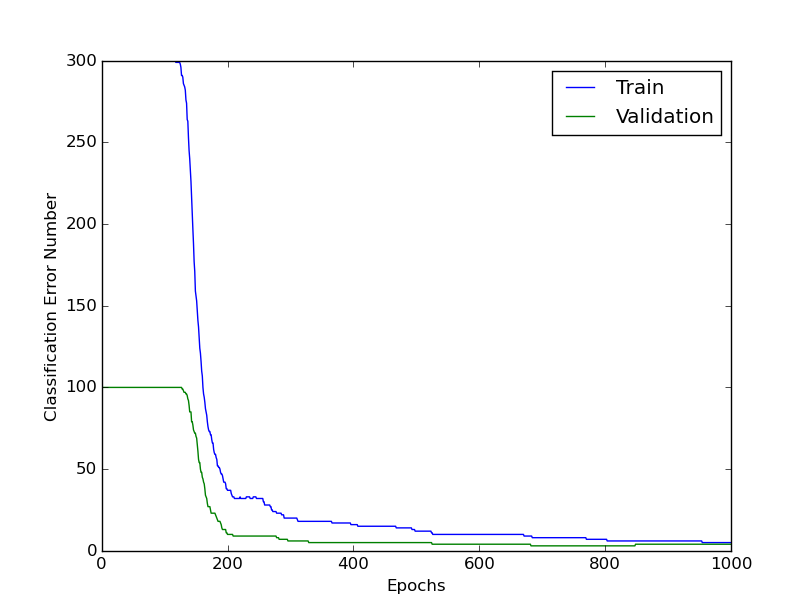
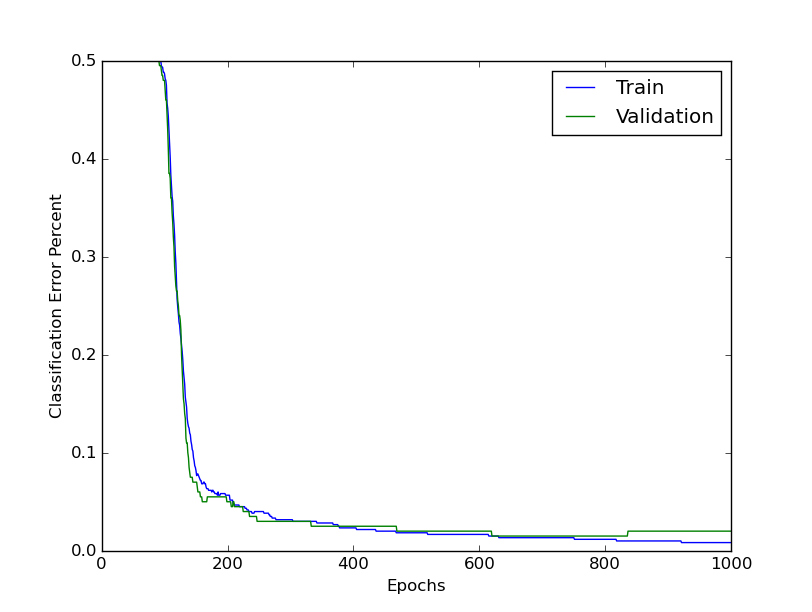
need percentage not the number for 2-2

diff --git a/NN/python/nn.py b/NN/python/nn.py
@@ -39,8 +39,8 @@ def TrainNN(num_hiddens, eps, momentum, num_epochs):
   valid_error = []
 
   # false classified error
-  train_error_false_classified_number = []
-  valid_error_false_classified_number = []
+  train_error_false_classified_percent = []
+  valid_error_false_classified_percent = []
 
   num_train_cases = inputs_train.shape[1]
   for epoch in xrange(num_epochs):
@@ -53,7 +53,7 @@ def TrainNN(num_hiddens, eps, momentum, num_epochs):
     # Compute cross entropy
     train_CE = -np.mean(target_train * np.log(prediction) + (1 - target_train) * np.log(1 - prediction))
       # train false classified error
-    train_false_classified_number = findFalsePredictedNumber(target_train, prediction)
+    train_false_classified_percent = findFalsePredictedPercent(target_train, prediction)
 
     # Compute deriv
     dEbydlogit = prediction - target_train
@@ -81,16 +81,16 @@ def TrainNN(num_hiddens, eps, momentum, num_epochs):
 
     valid_CE = Evaluate(inputs_valid, target_valid, W1, W2, b1, b2)
       # false classified error
-    valid_false_classified_number = EvaluateClassificationError(inputs_valid, target_valid, W1, W2, b1, b2)
+    valid_false_classified_percent = EvaluateClassificationErrorPercent(inputs_valid, target_valid, W1, W2, b1, b2)
 
     train_error.append(train_CE)
     valid_error.append(valid_CE)
     # classification error number
-    train_error_false_classified_number.append(train_false_classified_number)
-    valid_error_false_classified_number.append(valid_false_classified_number)
+    train_error_false_classified_percent.append(train_false_classified_percent)
+    valid_error_false_classified_percent.append(valid_false_classified_percent)
     
     # sys.stdout.write('\rStep %d Train CE %.5f Validation CE %.5f' % (epoch, train_CE, valid_CE))
-    sys.stdout.write('\rStep %d Train classification error number(CEN) %.5f Validation CEN %.5f' % (epoch, train_false_classified_number, valid_false_classified_number))
+    sys.stdout.write('\rStep %d Train Classification error Percent(CEP) %.5f Validation CEP %.5f' % (epoch, train_false_classified_percent, valid_false_classified_percent))
     sys.stdout.flush()
     if (epoch % 100 == 0):
       sys.stdout.write('\n')
@@ -100,11 +100,11 @@ def TrainNN(num_hiddens, eps, momentum, num_epochs):
   final_valid_error = Evaluate(inputs_valid, target_valid, W1, W2, b1, b2)
   final_test_error = Evaluate(inputs_test, target_test, W1, W2, b1, b2)
   print 'CE Error: Train %.5f Validation %.5f Test %.5f' % (final_train_error, final_valid_error, final_test_error)
-  final_train_error_CEN = EvaluateClassificationError(inputs_train, target_train, W1, W2, b1, b2)
-  final_valid_error_CEN = EvaluateClassificationError(inputs_valid, target_valid, W1, W2, b1, b2)
-  final_test_error_CEN = EvaluateClassificationError(inputs_test, target_test, W1, W2, b1, b2)
-  print 'Classification Error Number: Train %.5f Validation %.5f Test %.5f' % (final_train_error_CEN, final_valid_error_CEN, final_test_error_CEN)
-  return W1, W2, b1, b2, train_error, valid_error, train_error_false_classified_number, valid_error_false_classified_number
+  final_train_error_CEP = EvaluateClassificationErrorPercent(inputs_train, target_train, W1, W2, b1, b2)
+  final_valid_error_CEP = EvaluateClassificationErrorPercent(inputs_valid, target_valid, W1, W2, b1, b2)
+  final_test_error_CEP = EvaluateClassificationErrorPercent(inputs_test, target_test, W1, W2, b1, b2)
+  print 'Classification Error Percent: Train %.5f Validation %.5f Test %.5f' % (final_train_error_CEP, final_valid_error_CEP, final_test_error_CEP)
+  return W1, W2, b1, b2, train_error, valid_error, train_error_false_classified_percent, valid_error_false_classified_percent
 
 def Evaluate(inputs, target, W1, W2, b1, b2):
   """Evaluates the model on inputs and target."""
@@ -115,16 +115,16 @@ def Evaluate(inputs, target, W1, W2, b1, b2):
   CE = -np.mean(target * np.log(prediction) + (1 - target) * np.log(1 - prediction))
   return CE
 
-def EvaluateClassificationError(inputs, target, W1, W2, b1, b2):
+def EvaluateClassificationErrorPercent(inputs, target, W1, W2, b1, b2):
   """Evaluates the model on inputs and target."""
   h_input = np.dot(W1.T, inputs) + b1  # Input to hidden layer.
   h_output = 1 / (1 + np.exp(-h_input))  # Output of hidden layer.
   logit = np.dot(W2.T, h_output) + b2  # Input to output layer.
   prediction = 1 / (1 + np.exp(-logit))  # Output prediction.
-  return findFalsePredictedNumber(target, prediction)
+  return findFalsePredictedPercent(target, prediction)
 
-def findFalsePredictedNumber(target, prediction):
-  return np.sum(np.round(np.absolute(target - prediction)))
+def findFalsePredictedPercent(target, prediction):
+  return float(np.sum(np.round(np.absolute(target - prediction))))/np.size(target)
 
 
 def DisplayErrorPlot(train_error, valid_error):
@@ -144,7 +144,7 @@ def DisplayClassificationErrorPlot(train_error, valid_error):
   plt.plot(range(len(train_error)), train_error, 'b', label='Train')
   plt.plot(range(len(valid_error)), valid_error, 'g', label='Validation')
   plt.xlabel('Epochs')
-  plt.ylabel('Classification Error Number')
+  plt.ylabel('Classification Error Percent')
   plt.legend()
   plt.draw()
   raw_input('Press Enter to exit.')
@@ -166,9 +166,9 @@ def main():
   eps = 0.1
   momentum = 0.0
   num_epochs = 1000
-  W1, W2, b1, b2, train_error, valid_error, train_error_false_classified_number, valid_error_false_classified_number = TrainNN(num_hiddens, eps, momentum, num_epochs)
+  W1, W2, b1, b2, train_error, valid_error, train_error_false_classified_percent, valid_error_false_classified_percent = TrainNN(num_hiddens, eps, momentum, num_epochs)
   # DisplayErrorPlot(train_error, valid_error) 
-  DisplayClassificationErrorPlot(train_error_false_classified_number, valid_error_false_classified_number)
+  DisplayClassificationErrorPlot(train_error_false_classified_percent, valid_error_false_classified_percent)
   # If you wish to save the model for future use :
   # outputfile = 'model.npz'
   # SaveModel(outputfile, W1, W2, b1, b2, train_error, valid_error)
